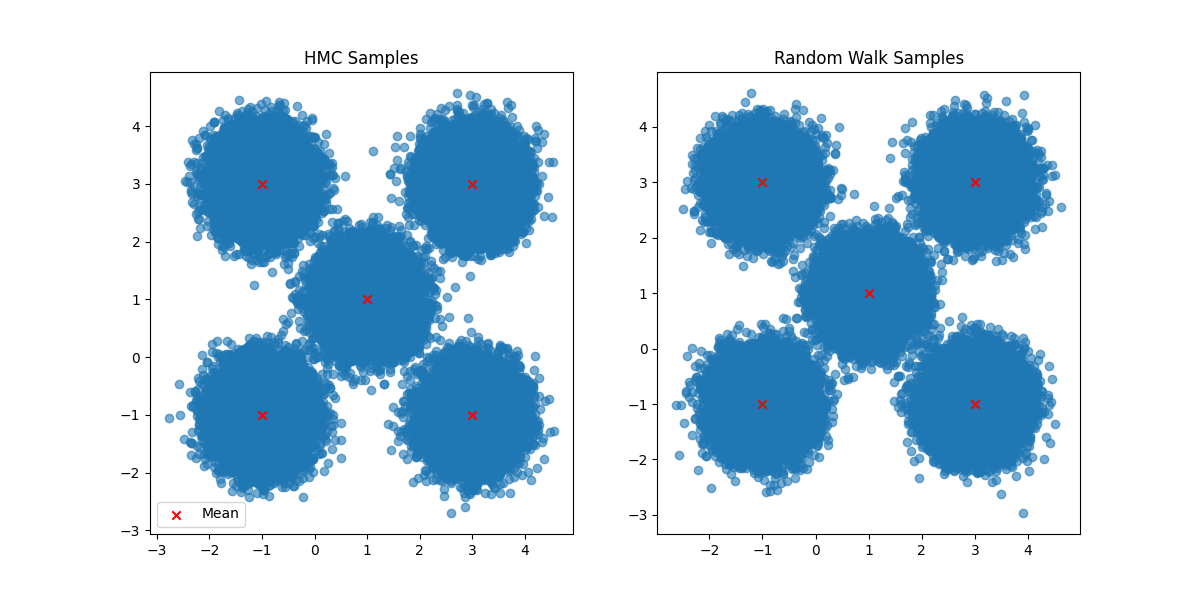
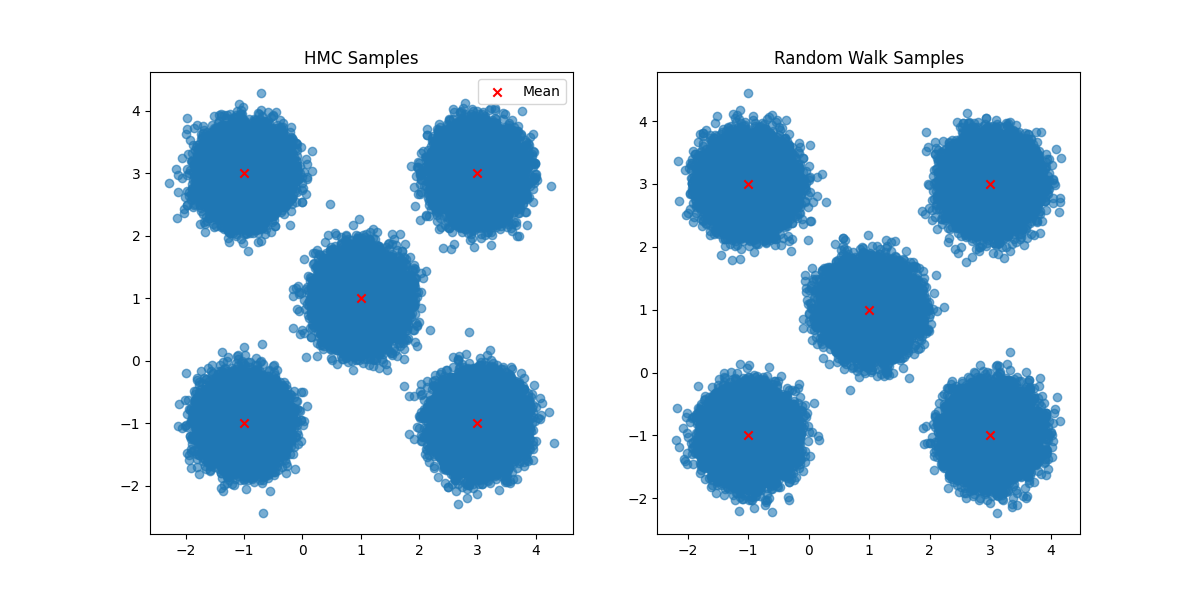
update

diff --git a/examples/gaussian_mixture.py b/examples/gaussian_mixture.py
@@ -17,12 +17,20 @@ initial_position = jax.random.uniform(subkey, (16, 2))
 dim = initial_position.shape[1]
 
 # We the run the HMC
-means = jnp.vstack([jnp.ones(dim) + 2, jnp.ones(dim), jnp.ones(dim) - 2, jnp.array([-1, 3]), jnp.array([3, -1])])
+means = jnp.vstack(
+    [
+        jnp.ones(dim) + 2,
+        jnp.ones(dim),
+        jnp.ones(dim) - 2,
+        jnp.array([-1, 3]),
+        jnp.array([3, -1]),
+    ],
+)
 
-potential = GaussianMixturePotential(means=means, sigma=0.4)
+potential = GaussianMixturePotential(means=means, sigma=0.3)
 config = HMCConfig(
     initial_step_size=0.2,
-    max_path_len=2,
+    max_path_len=4,
     iterations=SAMPLES,
     initial_precm=jnp.eye(dim),
     key=key,
